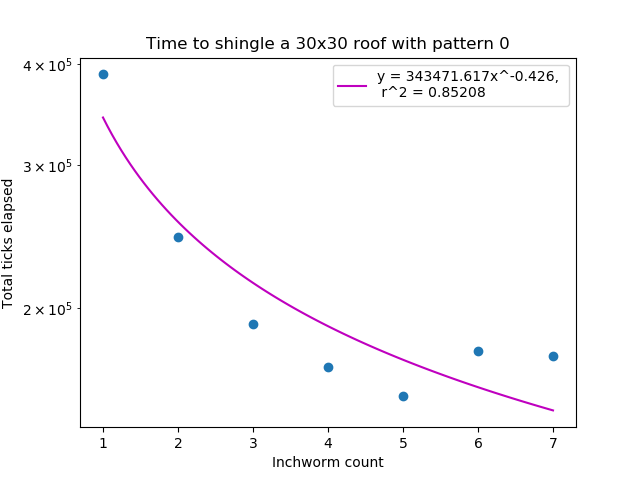
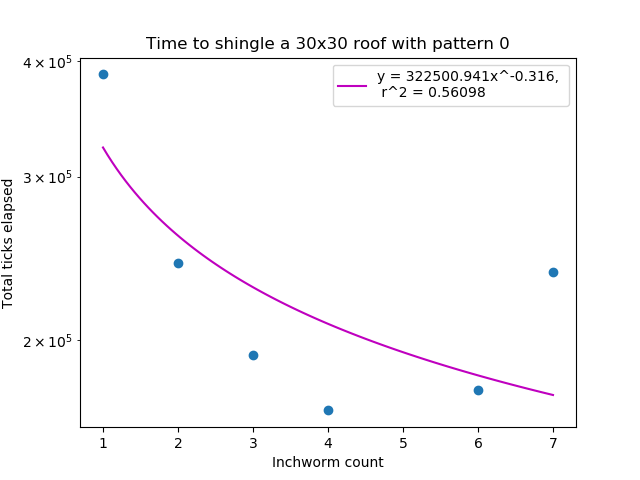
graph making

diff --git a/inchworm_algo/src/inchworm.py b/inchworm_algo/src/inchworm.py
@@ -224,8 +224,8 @@ class Inchworm():
             if realiable:
                 if shingle_state == ShingleStatus.INSTALLED:
                     self.set_shingle_conf(x, y, INSTALLED_CONF)
-                elif shingle_state == ShingleStatus.PLACED:
-                    self.set_shingle_conf(x, y, PLACED_SHINGLE_CONF)
+                # elif shingle_state == ShingleStatus.PLACED:
+                #     self.set_shingle_conf(x, y, PLACED_SHINGLE_CONF)
                 else:
                     self.set_shingle_conf(x, y, DEFAULT_CONF)
             # elif shingle_state != self.roof[x][y] and shingle_state == ShingleStatus.PLACED:
@@ -655,11 +655,11 @@ class Inchworm():
         else:
             test_x = shingle_coord[0] + Inchworm.ODD_ROW_N_LOOKUP[1][0]
             test_y = shingle_coord[1] + Inchworm.ODD_ROW_N_LOOKUP[1][1]
-            if test_x > -1 and test_y > -1 and self.get_shingle_state(test_x, test_y) == ShingleStatus.INSTALLED:
+            if test_x > -1 and test_y > -1 and test_x < self.roof_width and self.get_shingle_state(test_x, test_y) == ShingleStatus.INSTALLED:
                 validity_count += 1
             test_x = shingle_coord[0] + Inchworm.ODD_ROW_N_LOOKUP[2][0]
             test_y = shingle_coord[1] + Inchworm.ODD_ROW_N_LOOKUP[2][1]
-            if test_x > -1 and test_y > -1 and self.get_shingle_state(test_x, test_y) == ShingleStatus.INSTALLED:
+            if test_x > -1 and test_x < self.roof_width and test_y > -1 and self.get_shingle_state(test_x, test_y) == ShingleStatus.INSTALLED:
                 validity_count += 1
             if shingle_coord[0] == 0:
                 validity_count += 1

diff --git a/inchworm_algo/src/create_graph.py b/inchworm_algo/src/create_graph.py
@@ -87,7 +87,7 @@ for run in data:
     # fig.show()
 
 print(average_data)
-
+plt.rcParams['font.size'] = '14'
 plt.scatter(inchworms, move_data)
 plt.xlabel("Inchworm Count")
 plt.ylabel("Total Estimated Hours Until Compilation")
@@ -96,7 +96,7 @@ plt.title(f"Time to Shingle a {WIDTH}x{HEIGHT} Roof with Pattern {pattern}")
 plt.savefig(f"{WIDTH}x{HEIGHT}_{pattern}.png")
 
 
-
+data_points = [0, 3, 5]
 fig = go.Figure()
 for i in range(average_data.shape[0]):
     print(average_data.columns.values.tolist()[1:])

diff --git a/inchworm_algo/src/algo_visualizer.py b/inchworm_algo/src/algo_visualizer.py
@@ -12,7 +12,7 @@ inchworms = []
 tile_renderer = None
 
 
-WIDTH = 900
+WIDTH = 1800
 HEIGHT = 1050
 FPS = 60
 ## initialize pygame and create window
